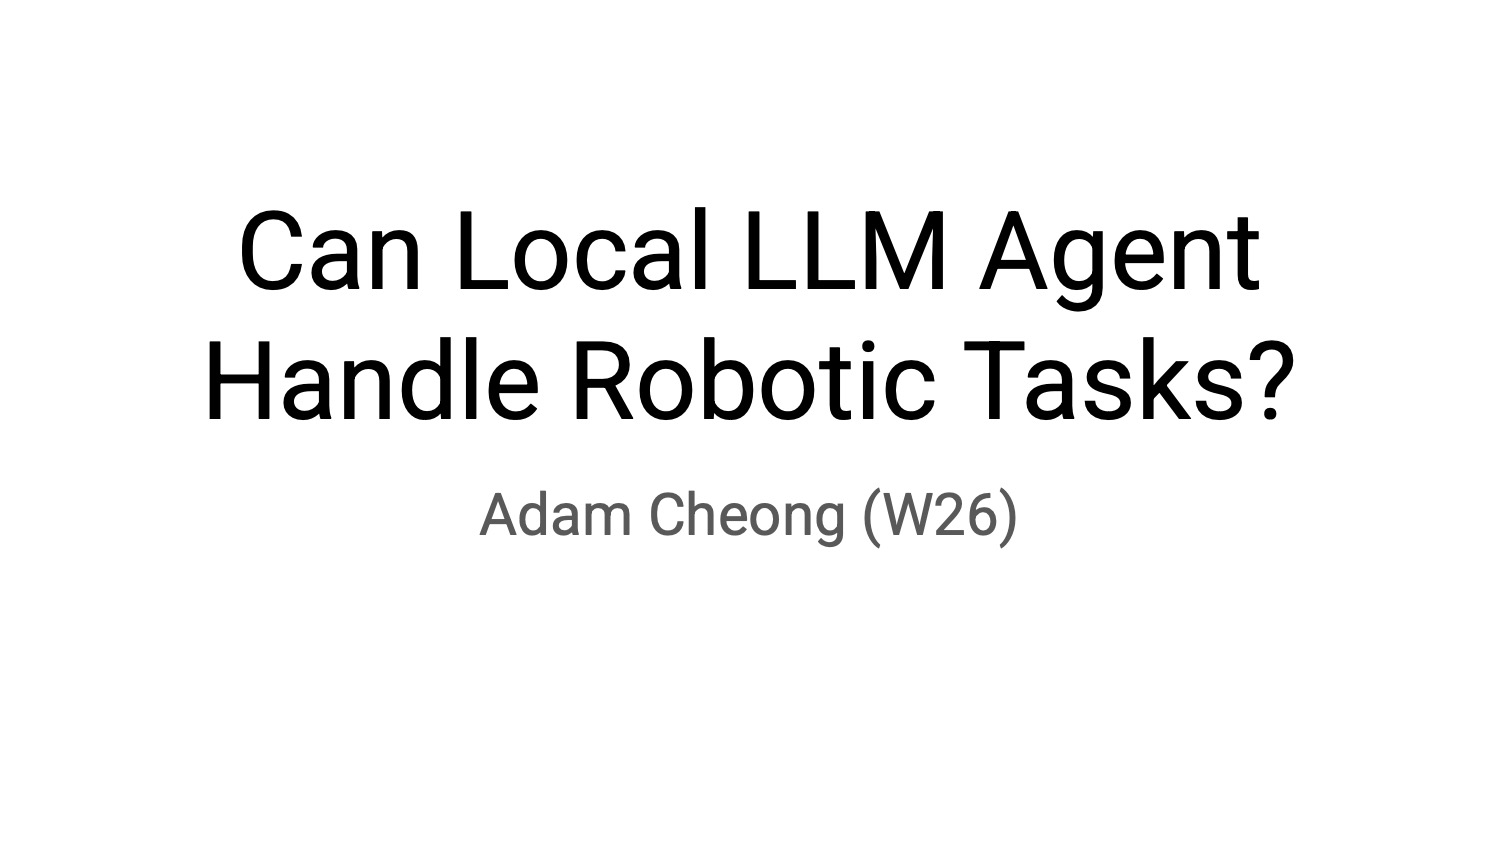
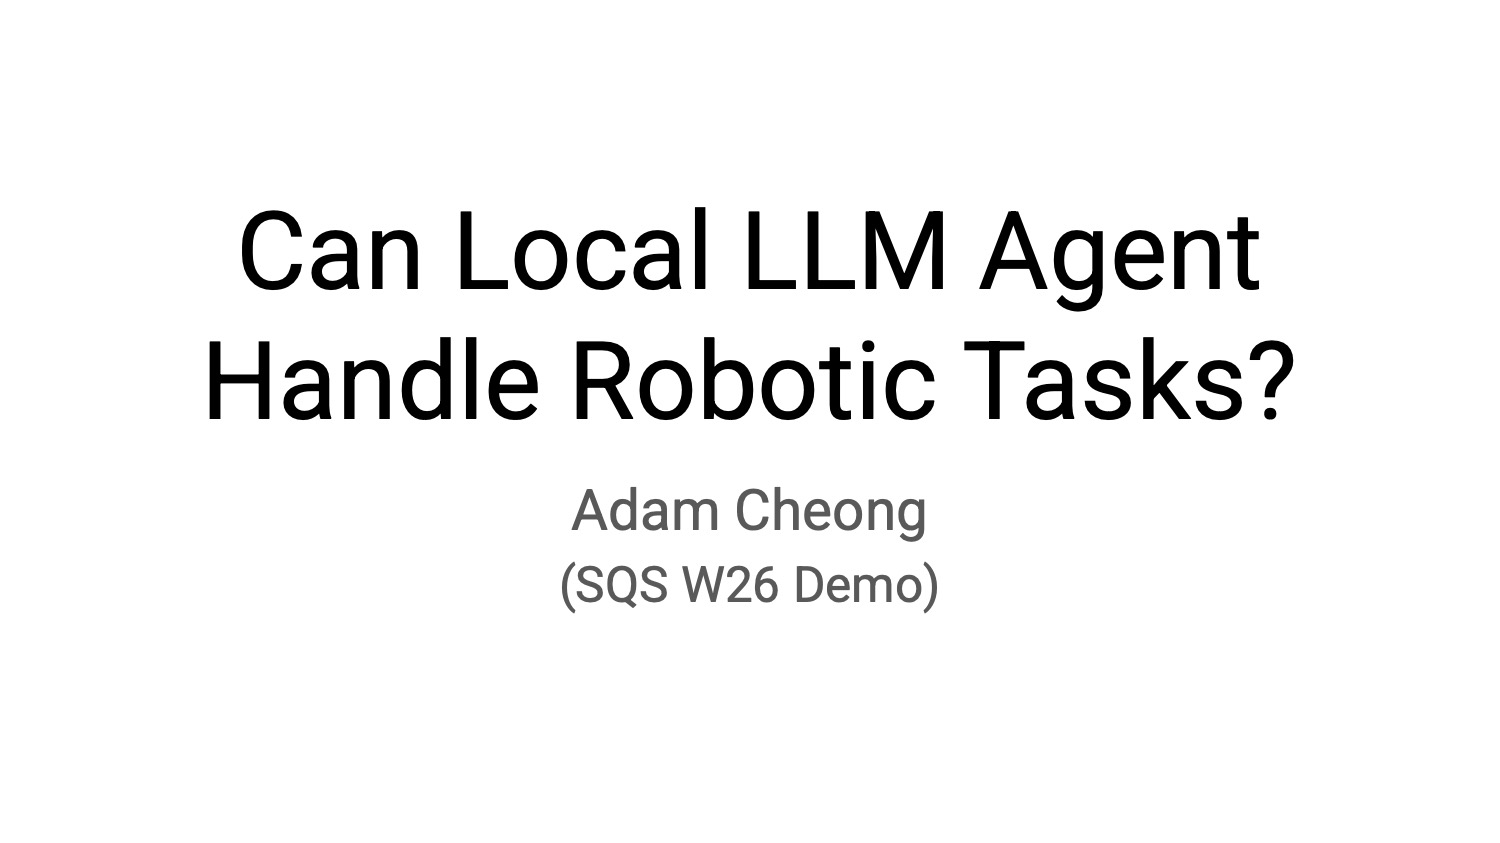
SQS

Changed region(s): [[0.3067, 0.5552, 0.6747, 0.7402]]

diff --git a/_projects/sidequest.md b/_projects/sidequest.md
@@ -11,13 +11,13 @@ I plan to evaluate the use of a local LLM agent for robotic tasks by constructin
 
 In particular, the local LLM runs on a Mac Mini M5 Pro (with 64GB memory) connected to OpenArm 2.0, which executes a variety of robotic tasks in a controlled setting. These tasks can be machine learned using a kinematic equivalent teleoperation rig.
 
-By using a local LLM agent to control a pair of robot arms equipped with grippers (but with the possibility of upgrading to dexterous hands in the future), I hope to demonstrate that code-as-policy is a viable path to _edge_ intelligence for robotics, thus opening up new modes of robotic interaction with local control (e.g., robots on Mars executing commands from Earth) for greater autonomy at low latency.
+By using a local LLM agent to control a pair of robot arms equipped with grippers (but with the possibility of upgrading to dexterous hands in the future), I hope to demonstrate that code-as-policy is a viable path to _edge_ intelligence for robotics, thus opening up flexible modes of robotic interaction with local control (e.g., robots on Mars executing commands received from Earth) for greater autonomy at low latency.
 
 ---
 
 **Project Schedule (Nov 29 2026 to Dec 20 2026):**
 
-(2026 Dec 20) 🤖 SideQuest Sundays W26 Demo Day: 🦾 robot arms in California executing commands from Tokyo 👨🏻💻
+(2026 Dec 20) 🤖 SideQuest Sundays W26 Demo Day: 🦾 robot arms in California executing commands sent from Tokyo 👨🏻💻
 
 (2026 Dec 13) 🧠 LLM agent running on Mac Mini + connectivity to OpenArm 2.0.
 
